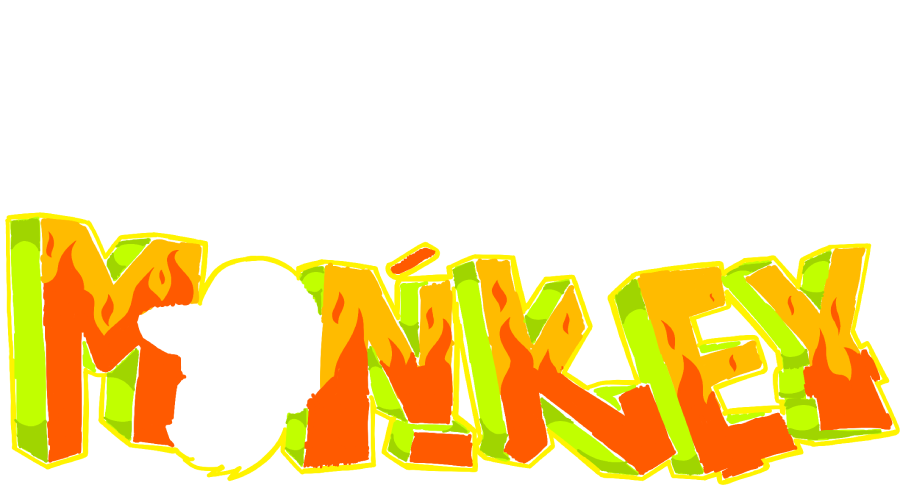
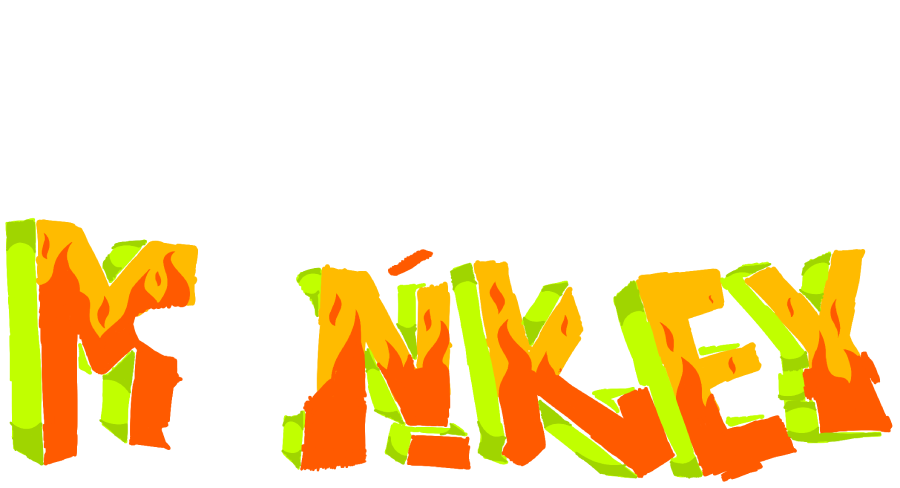
ShopPage Pagination / FirstPage animations

Changed region(s): [[0.0, 0.433, 1.0, 1.0], [0.1867, 0.7423, 0.2178, 0.866]]

diff --git a/src/components/Footer.vue b/src/components/Footer.vue
@@ -1,6 +1,6 @@
 <template>
   <div
-    class="h-auto w-screen bg-gradient-to-b from-yellow-500 flex-col justify-between to-LightBlue-200 flex items-center"
+    class="h-auto w-screen bg-gradient-to-b from-goldie flex-col justify-between to-LightBlue-200 flex items-center"
   >
     <div
       class="w-80 h-80 mt-6 relative flex justify-center align-center NavbarTrigger logo"
@@ -20,7 +20,7 @@
       با ما در تماس باشین
     </h1>
     <div
-      class="lg:space-x-6 space-x-1 flex justify-center flex-col items-center w-screen h-96 bg-darkPurple py-8 rounded-md"
+      class="space-y-9 flex justify-center flex-col items-center w-screen md:h-72 h-96 bg-darkPurple py-8"
     >
       <div class="flex lg:space-x-6 space-x-1 sm:px-6">
         <img
@@ -46,14 +46,14 @@
           alt=""
         />
       </div>
-      <div class="text-right">
-        <h1 class="lg:text-4xl text-2xl font-bold my-7 text-purple-200">
+      <div
+        class="text-center md:text-right flex justify-center items-center flex-col px-6"
+      >
+        <h1 class="lg:text-4xl text-2xl font-bold md:my-7 text-purple-200">
           آدرس: اول خیام، دوم خیام، چهارراه ولفولکس، پاساژ لولولند، پانکی مانکی
           <v-icon color="pink">mdi-map-marker</v-icon>
         </h1>
-        <h1
-          class="text-4xl font-bold my-7 text-purple-200 flex justify-center items-center"
-        >
+        <h1 class="text-4xl font-bold md:my-7 text-purple-200">
           شماره تماس: 0215951656
           <v-icon color="blue">mdi-phone-in-talk</v-icon>
         </h1>
@@ -80,7 +80,7 @@ export default {
   methods: {
     animateMonkey() {
       const tl = gsap.timeline({ repeat: -1, yoyo: true });
-      tl.from(".eyes", 2, {
+      tl.from(".eyes", 1.5, {
         ease: "power1.inOut",
         opacity: 0,
         transformOrigin: "50% 100%",

diff --git a/src/views/HomePage.vue b/src/views/HomePage.vue
@@ -1,9 +1,9 @@
 <template>
   <div
-    class="w-screen flex space-y-16 justify-center align-center flex-col"
+    class="w-screen h-full flex space-y-16 justify-center align-center pt-10 flex-col"
     id="main"
   >
-    <div class="w-screen h-screen bg-LightBlue-400 p-6 mt-20">
+    <div class="w-screen md::h-screen h-rem33 bg-LightBlue-400 p-6 mt-20">
       <div class="h-full w-full justify-center align-center flex">
         <img
           class="absolute PunkyColor"
@@ -21,6 +21,11 @@
           alt=""
         />
 
+        <img
+          class="absolute PunkyHighlights"
+          src="../assets/images/MonkeyHighlights.webp"
+          alt=""
+        />
         <img
           class="absolute MonkeyColor"
           src="../assets/images/MonkeyColors.webp"
@@ -92,6 +97,7 @@ export default {
   },
   mounted() {
     this.animatePunkeyMonkey();
+    this.animatePunkeyHighlights();
   },
   methods: {
     animatePunkeyMonkey() {
@@ -113,12 +119,6 @@ export default {
         duration: 1,
         ease: "expo.out",
       });
-      tl.from(".PunkyHighlights", {
-        opacity: 0,
-        duration: 1,
-        ease: "expo.out",
-      });
-
       tl.from(".MonkeyOutlines", {
         opacity: 0,
         duration: 0.8,
@@ -128,6 +128,14 @@ export default {
         opacity: 0,
         duration: 0.7,
         ease: "expo.out",
+      });
+    },
+    animatePunkeyHighlights() {
+      const tl = gsap.timeline({ repeat: -1, yoyo: true });
+      tl.from(".PunkyHighlights", 1.5, {
+        ease: "power1.inOut",
+        opacity: 0,
+        transformOrigin: "50% 100%",
       });
     },
   },

diff --git a/src/views/ShopPage.vue b/src/views/ShopPage.vue
@@ -1,14 +1,17 @@
 <template>
   <div
     id="main"
-    class="w-screen flex flex-col justify-center align-center px-5"
+    class="w-screen flex flex-col justify-center align-center px-5 pt-6"
   >
-    <div class="w-full background rounded-b-xl mb-8 mt-20">
+    <div class="w-full background rounded-b-xl mb-8 mt-24 rounded-t-md">
       <div
-        class="w-full h-20 flex justify-end p-7 align-center bg-mainBlue mb-3"
+        class="w-full h-20 flex justify-between p-7 items-center filter drop-shadow-2xl rounded-t-md bg-blue-400 mb-3"
       >
-        <!-- <ListBox /> -->
         <DropDownMenu />
+        <h1 class="text-3xl font-extrabold bg-blue-500 p-3 bg-opacity-50">
+          هودی ها
+        </h1>
+        <!-- <ListBox /> -->
       </div>
 
       <transition-group
@@ -25,6 +28,16 @@
           class="flex justify-center items-center"
         />
       </transition-group>
+      <div class="px-14 md:px-52">
+        <v-pagination
+          v-model="page"
+          prev-icon="mdi-menu-left"
+          next-icon="mdi-menu-right"
+          class="my-6"
+          rounded="circle"
+          :length="15"
+        ></v-pagination>
+      </div>
 
       <!-- <DefaultButton
           class="rounded-full font-bold text-white bg-mainBlue self-center text-lg p-4 m-5"
@@ -45,6 +58,11 @@ import { supabase } from "../supabase";
 import { onMounted } from "@vue/runtime-core";
 import gsap from "gsap";
 export default {
+  data() {
+    return {
+      page: 1,
+    };
+  },
   components: {
     ListBox,
     DropDownMenu,

diff --git a/src/components/CategoryCards.vue b/src/components/CategoryCards.vue
@@ -1,6 +1,6 @@
 <template>
   <div
-    class="bg-white w-full h-72 lg:h-rem33 my-9 wrapper rounded-lg p-10 flex space-x-3"
+    class="bg-white w-full h-72 lg:h-rem33 my-9 wrapper rounded-lg p-10 md:p-16 flex space-x-3"
   >
     <div class="w-full h-full bg-purple-900 p-2">
       <img class="bg-mainPurple" src="" alt="" />

diff --git a/src/index.css b/src/index.css
@@ -1,3 +1,5 @@
+@import url("https://fonts.googleapis.com/css2?family=Acme&family=Lato:wght@900&display=swap");
+
 @tailwind base;
 @tailwind components;
 @tailwind utilities;
@@ -25,7 +27,7 @@
 }
 
 * {
-  font-family: "LaleZar";
+  font-family: "LaleZar", "Lato";
 }
 html {
   overflow-x: hidden !important;
